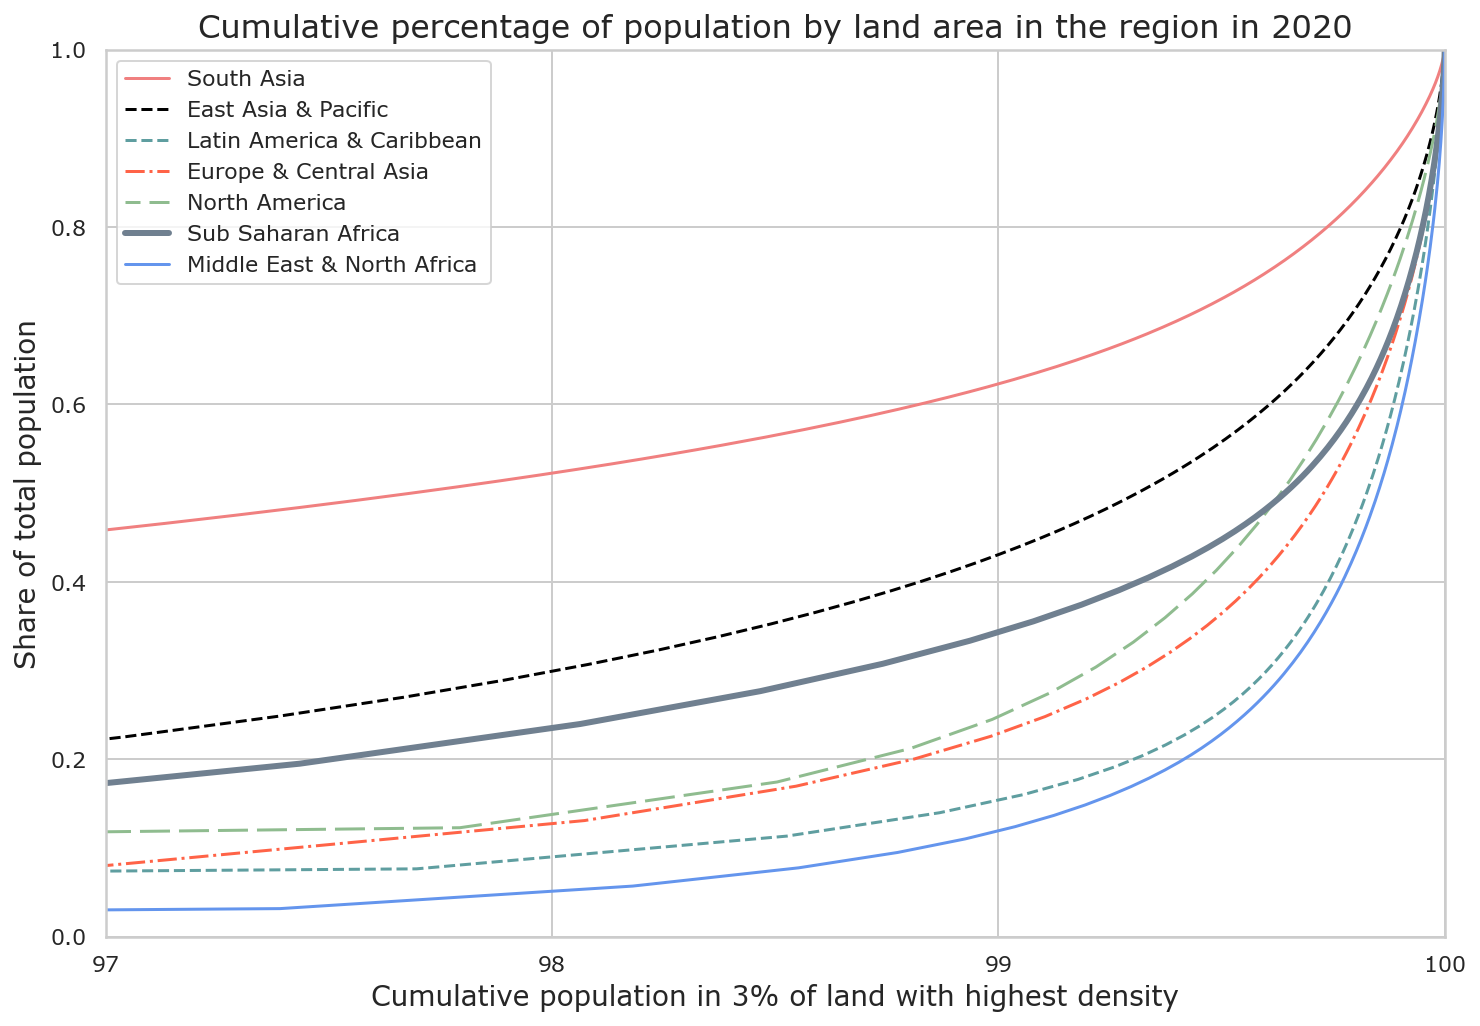
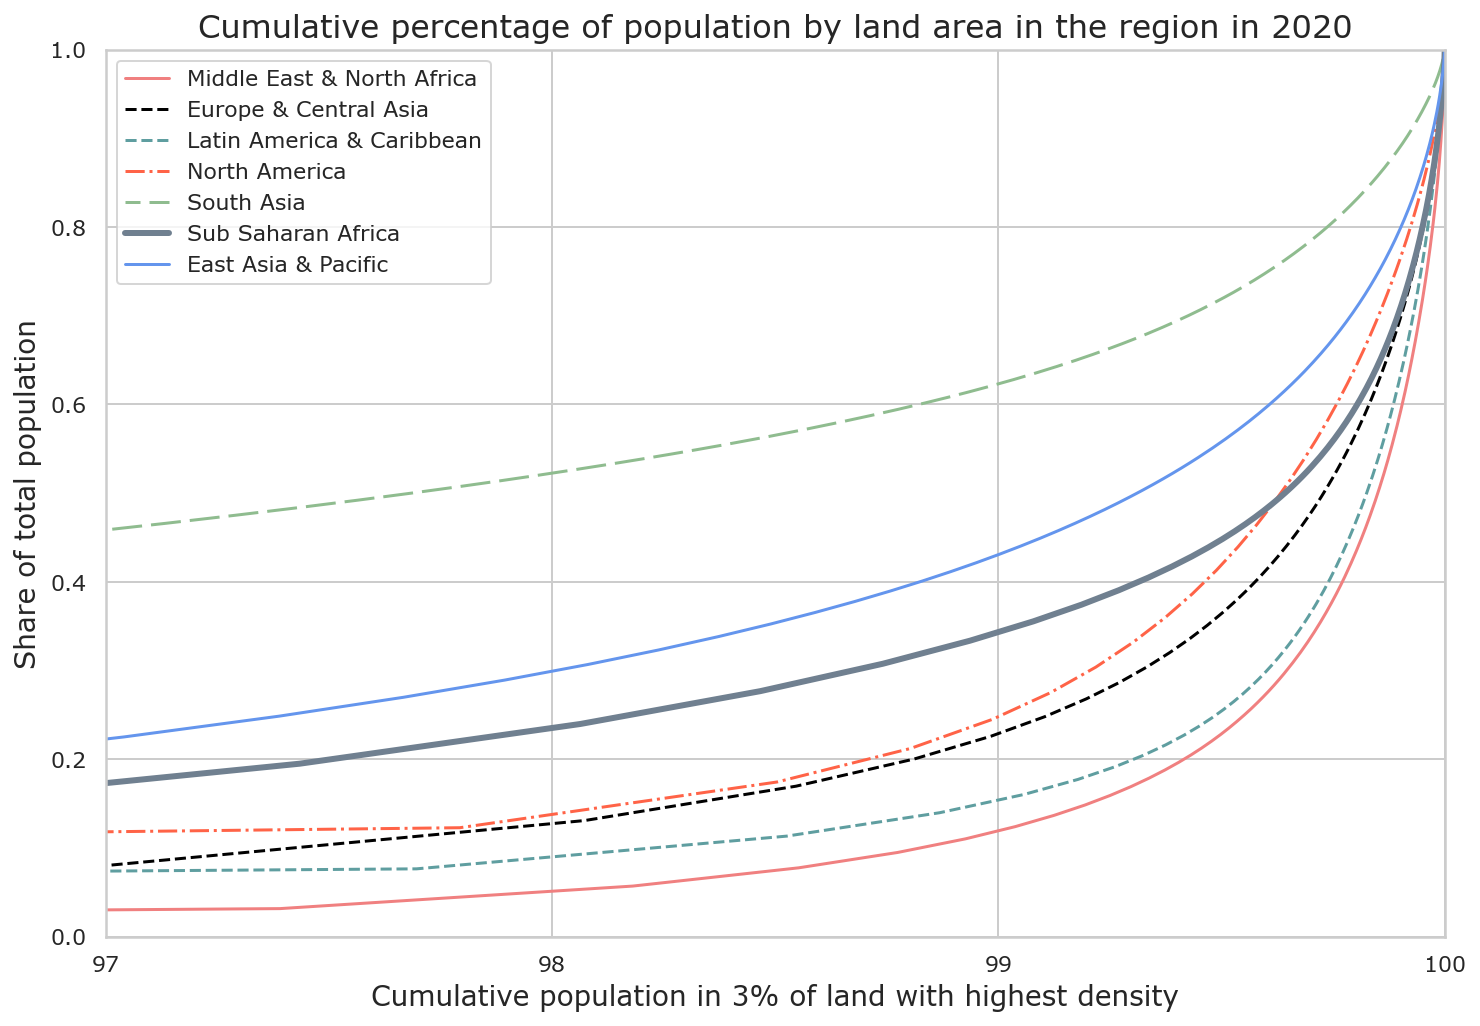
Attepting to fix curve and start of lagged bin calculations

diff --git a/lag_bin.js b/lag_bin.js
@@ -1,0 +1,327 @@
+var pop1980 = ee.Image("JRC/GHSL/P2023A/GHS_POP/1980");
+var pop1990 = ee.Image("JRC/GHSL/P2023A/GHS_POP/1990");
+var pop2000 = ee.Image("JRC/GHSL/P2023A/GHS_POP/2000");
+var pop2010 = ee.Image("JRC/GHSL/P2023A/GHS_POP/2010");
+var pop2020 = ee.Image("JRC/GHSL/P2023A/GHS_POP/2020");
+
+var countriesFC = ee.FeatureCollection('FAO/GAUL/2015/level0');
+
+// ---------------------------------------- using 1980 pop
+// Aggregate population data to 1-km grid cells for 1980 population
+var population1km = pop1980.where(pop1980.lt(0), 0).reduceResolution({
+    reducer: ee.Reducer.sum().unweighted(),
+    maxPixels: 1024
+  })
+  .reproject({
+    crs: pop1980.projection().atScale(1000)
+  });
+  
+//Map.addLayer(population, {}, "Population");
+//Map.addLayer(population1km, {}, "Population at 1km");
+
+// Round up population values to the nearest 100 as a new raster for 1980 population
+var binned_pop1km = population1km.expression(
+  "ceil(pop / 100) * 100", {
+	'pop': population1km,
+  }
+).rename('binned_population');
+// ---------------------------------------------------------
+
+// aggregate pop to 1km..replace pop1980 ---------------------
+var population1km = pop1990.where(pop1990.lt(0), 0).reduceResolution({
+    reducer: ee.Reducer.sum().unweighted(),
+    maxPixels: 1024
+  })
+  .reproject({
+    crs: pop1990.projection().atScale(1000)
+  });
+
+//Map.addLayer(binned_pop1km, {}, "Population at 1km round up to nearest 100");
+// -------------------------------------------------------------
+
+
+// Combine original population data and binned raster
+var combined = population1km.addBands(binned_pop1km);
+
+
+// This function handles all regions except North America
+// function starts------------------------------------------------------
+function processRegionPopulation(countries, exportFileName) {
+  
+  // Initialize empty FeatureCollection to aggregate results for the region
+  var regionResults = ee.FeatureCollection([]);
+  
+  // Loop through each country in the region
+  countries.forEach(function (countryName) {
+      // Filter the country geometry
+      var countryGeometry = countriesFC.filter(ee.Filter.eq('ADM0_NAME', countryName)).geometry();
+  
+      // Clip population data to the country
+      var combined_x = combined.clip(countryGeometry);
+      
+      //Define a reducer that counts cells and sums population
+      var reducer = ee.Reducer.sum().combine({
+        reducer2: ee.Reducer.count(),
+        sharedInputs: true
+      }).group({groupField: 1,});
+      
+      
+      // Reduce to bin-level population totals
+      var popByBin = combined_x.reduceRegion({
+        reducer: reducer,
+        geometry: countryGeometry,
+        scale: 1000,
+        maxPixels: 1e9,
+      });
+  
+      // Extract grouped data
+      var groups = ee.List(popByBin.get('groups'));
+      
+
+      // Create a FeatureCollection from grouped data for the country
+      var countryFeatures = groups.map(function (group) {
+        group = ee.Dictionary(group);
+        return ee.Feature(null, {
+          'Bin': group.get('group'), // Bin ID
+          'PopulationSum': group.get('sum'), // Population sum for the bin
+          'GridcellCount': group.get('count'), // Count of gridcells for the bin
+        });
+      });
+
+    // Append country results to the region's FeatureCollection
+    regionResults = regionResults.merge(ee.FeatureCollection(countryFeatures));
+  });
+  
+  // Calculate sum of both population and gridcells
+  var merged = regionResults.reduceColumns({
+    reducer: ee.Reducer.sum().repeat(2).group({
+      groupField: 0,  // Index of the column to group by
+      groupName: 'Bin',
+    }),
+    selectors: ['Bin', 'PopulationSum', 'GridcellCount']  
+  }).get('groups');
+
+  // Convert the merged results back to a FeatureCollection
+  var mergedFC = ee.FeatureCollection(ee.List(merged).map(function(group) {
+    var groupValue = ee.Dictionary(group).get('Bin');
+    var sumValue = ee.List(ee.Dictionary(group).get('sum')).get(0);
+    var countValue = ee.List(ee.Dictionary(group).get('sum')).get(1);
+    
+    return ee.Feature(null, {
+      'Bin': groupValue,
+      'PopulationSum': sumValue,
+      'GridcellCount': countValue
+    });
+  }));
+  
+  // Export to CSV
+  Export.table.toDrive({
+    collection: mergedFC,
+    description: exportFileName,  // Name of your export file
+    fileFormat: 'CSV'
+  });
+}
+
+// Sub-Saharan Africa
+var SSA = ['Angola','Nigeria', 'Ghana', 'Kenya', 'Swaziland', 'Benin',
+'Botswana', 'Burkina Faso', 'Burundi', 'Cape Verde', 'Cameroon', 
+'Central African Republic', 'Chad', 'Comoros', 'Congo', 
+'Democratic Republic of the Congo', "Côte d'Ivoire", 'Equatorial Guinea',
+'Eritrea', 'Ethiopia', 'Gabon', 'Gambia', 'Guinea', 'Guinea-Bissau', 'Lesotho',
+'Liberia', 'Madagascar', 'Malawi', 'Mali', 'Mauritania', 'Mauritius', 'Mozambique',
+'Namibia', 'Niger', 'Rwanda', 'Sao Tome and Principe', 'Senegal', 'Seychelles', 
+'Sierra Leone', 'Somalia', 'South Africa', 'South Sudan', 'Sudan', 'United Republic of Tanzania', 
+'Togo', 'Uganda', 'Zambia', 'Zimbabwe'];
+
+// East Asia and Pacific
+var EAP =['American Samoa', 'Australia', 'Brunei Darussalam', 'Cambodia', 'China', 'Fiji',
+'French Polynesia', 'Guam', 'Hong Kong', 'Indonesia', 'Japan', 'Kiribati', 
+"Dem People's Rep of Korea", "Republic of Korea", "Lao People's Democratic Republic",
+'Macau', 'Malaysia', 'Marshall Islands', "Micronesia (Federated States of)",
+'Mongolia', 'Myanmar','Nauru', 'New Caledonia', 'New Zealand','Northern Mariana Islands',
+'Palau','Papua New Guinea', 'Philippines', 'Samoa', 'Singapore', 'Solomon Islands',
+'Taiwan', 'Thailand', 'Timor-Leste', 'Tonga', 'Tuvalu','Vanuatu', 'Viet Nam'
+  ];
+  
+// Europe and Central Asia
+var ECA = ['Albania', 'Andorra', 'Armenia', 'Austria', 'Azerbaijan', 'Belarus', 'Belgium',
+'Bosnia and Herzegovina', 'Bulgaria', 'Croatia', 'Cyprus', 'Denmark', 'Estonia', 'Faroe Islands',
+'Finland', 'France', 'Georgia', 'Germany', 'Gibraltar', 'Greece', 'Greenland', 'Hungary', 'Iceland',
+'Ireland', 'Isle of Man', 'Italy', 'Kazakhstan', 'Latvia', 'Liechtenstein', 'Lithuania', 'Luxembourg',
+'Moldova, Republic of', 'Monaco', 'Montenegro', 'Netherlands', 'Norway', 'Poland', 'Portugal', 'Romania',
+'Russian Federation', 'San Marino', 'Serbia', 'Slovenia', 'Spain', 'Sweden', 'Switzerland', 'Tajikistan',
+'Turkmenistan', 'Turkey', 'Ukraine', 'U.K. of Great Britain and Northern Ireland', 'Uzbekistan'
+];
+
+// Latin America & Caribbean
+var LAC = ['Antigua and Barbuda', 'Argentina', 'Aruba', 'Barbados', 'Belize', 'Bolivia', 'Brazil', 'British Virgin Islands',
+'Cayman Islands', 'Chile', 'Colombia', 'Costa Rica', 'Cuba', 'Dominica', 'Dominican Republic', 'Ecuador', 'El Salvador', 
+'Grenada', 'Guatemala', 'Guyana', 'Haiti', 'Honduras', 'Jamaica', 'Mexico', 'Nicaragua', 'Panama', 'Paraguay', 'Peru', 
+'Puerto Rico', 'Saint Kitts and Nevis', 'Saint Vincent and the Grenadines', 'Suriname', 'Trinidad and Tobago',
+'Turks and Caicos islands', 'Uruguay', 'Venezuela', 'United States Virgin Islands'
+];
+
+// Middle East & North Africa
+var MENA = ['Algeria', 'Bahrain', 'Djibouti', 'Egypt', 'Iran  (Islamic Republic of)', 'Iraq', 'Israel', 'Jordan',
+'Kuwait', 'Lebanon', 'Libya', 'Malta', 'Morocco', 'Oman', 'Qatar', 'Saudi Arabia', 'Syrian Arab Republic',
+'Tunisia', 'United Arab Emirates', 'West Bank', 'Yemen'
+  ];
+
+//South Asia
+var SA = ['Afghanistan', 'Bangladesh', 'Bhutan', 'India', 'Maldives', 'Nepal', 'Pakistan', 'Sri Lanka'
+];
+  
+  
+ 
+// North America 
+var NA = ['Bermuda', 'Canada', 'United States of America'];
+
+// This function handles North America
+// Unified function to process both single and multipolygon countries
+function processDynamicRegion(countries, exportFileName) {
+  // Initialize empty FeatureCollection to aggregate results
+  var regionResults = ee.FeatureCollection([]);
+
+  countries.forEach(function(countryName) {
+    var countryFC = countriesFC.filter(ee.Filter.eq('ADM0_NAME', countryName));
+    var countrySize = countryFC.size();
+
+    // Handle each country separately to avoid projection issues
+    if (countrySize.gt(1)) {
+      // Handle multipolygon countries
+      var features = countryFC.toList(countrySize);
+      
+      // Process each feature separately
+      var processFeature = function(feature) {
+        feature = ee.Feature(feature);
+        var featureGeometry = feature.geometry();
+        
+        // Reproject the geometry to match the population data's projection
+        //featureGeometry = featureGeometry.transform(population1km.projection(), ee.ErrorMargin(1000, 'meters'));
+        
+        // Clip population data to the feature geometry
+        var combined_x = combined.clip(featureGeometry);
+        
+        // Use unbounded geometry for reduction
+        //var reducerGeometry = featureGeometry.bounds();
+        
+        // Define reducer
+        var reducer = ee.Reducer.sum().combine({
+          reducer2: ee.Reducer.count(),
+          sharedInputs: true
+        }).group({groupField: 1});
+        
+        
+          // Reduce to bin-level population totals with error handling
+          var popByBin = combined_x.reduceRegion({
+            reducer: reducer,
+            geometry: featureGeometry,
+            scale: 1000,
+            maxPixels: 1e13
+            //tileScale: 4
+          });
+          
+          // Extract grouped data
+          var groups = ee.List(popByBin.get('groups'));
+          
+          return ee.FeatureCollection(groups.map(function(group) {
+            group = ee.Dictionary(group);
+            return ee.Feature(null, {
+              'Bin': group.get('group'),
+              'PopulationSum': group.get('sum'),
+              'GridcellCount': group.get('count'),
+            });
+          }));
+      };
+      
+      // Map over all features
+      var allResults = features.map(function(feature) {
+        return processFeature(feature);
+      });
+      
+      // Merge all results for multipolygon
+      var mergedResults = ee.FeatureCollection(allResults).flatten();
+      regionResults = regionResults.merge(mergedResults);
+      
+    } else {
+      // Handle single geometry countries
+      var countryGeometry = countriesFC.filter(ee.Filter.eq('ADM0_NAME', countryName)).geometry();
+      
+      var combined_x = combined.clip(countryGeometry);
+      
+      // Use unbounded geometry for reduction
+      //var reducerGeometry = countryGeometry.bounds();
+      
+      // Define reducer
+      var reducer = ee.Reducer.sum().combine({
+        reducer2: ee.Reducer.count(),
+        sharedInputs: true
+      }).group({groupField: 1});
+      
+     
+        // Reduce to bin-level population totals with error handling
+        var popByBin = combined_x.reduceRegion({
+          reducer: reducer,
+          geometry: countryGeometry,
+          scale: 1000,
+          maxPixels: 1e9
+          //tileScale: 4
+        });
+        
+        // Extract grouped data
+        var groups = ee.List(popByBin.get('groups'));
+        
+        // Create features from grouped data
+        var countryFeatures = groups.map(function(group) {
+          group = ee.Dictionary(group);
+          return ee.Feature(null, {
+            'Bin': group.get('group'),
+            'PopulationSum': group.get('sum'),
+            'GridcellCount': group.get('count'),
+          });
+        });
+        
+        regionResults = regionResults.merge(ee.FeatureCollection(countryFeatures));
+    }
+  });
+
+  // Aggregate results by bin
+  var finalResults = regionResults.reduceColumns({
+    reducer: ee.Reducer.sum().repeat(2).group({
+      groupField: 0,
+      groupName: 'Bin',
+    }),
+    selectors: ['Bin', 'PopulationSum', 'GridcellCount']
+  }).get('groups');
+
+  // Convert the merged results back to a FeatureCollection
+  var mergedFC = ee.FeatureCollection(ee.List(finalResults).map(function(group) {
+    var groupValue = ee.Dictionary(group).get('Bin');
+    var sumValue = ee.List(ee.Dictionary(group).get('sum')).get(0);
+    var countValue = ee.List(ee.Dictionary(group).get('sum')).get(1);
+    
+    return ee.Feature(null, {
+      'Bin': groupValue,
+      'PopulationSum': sumValue,
+      'GridcellCount': countValue
+    });
+  }));
+ // Export to CSV
+  Export.table.toDrive({
+    collection: mergedFC,
+    description: exportFileName,  // Name of your export file
+    fileFormat: 'CSV'
+  });
+}
+
+
+
+
+//processRegionPopulation(EAP, 'East_Asia_and_Pacific');
+processRegionPopulation(SSA, 'Sub_Saharan_Africa');
+//processRegionPopulation(LAC, 'Latin_America_and_Caribbean');
+processRegionPopulation(MENA, 'Middle_East_and_North_Africa');
+processRegionPopulation(ECA, 'Europe_and_Central_Asia');
+processRegionPopulation(SA, 'South_Asia');
+processDynamicRegion(NA, 'North_America');
+  

diff --git a/reproduction_plots.py b/reproduction_plots.py
@@ -4,6 +4,7 @@
 import pandas as pd
 import matplotlib.pyplot as plt
 import seaborn as sns
+from scipy.interpolate import interp1d
 import numpy as np
 import os
 
@@ -197,13 +198,15 @@ def plot1b(data1, data2, plot_title, output_file=None, x_value=98):
     lines_dict = {}
     # Ensure both datasets have the same columns
     common_columns = set(data1.columns).intersection(set(data2.columns))
- 
- 
+
+    
     for i, column in enumerate(common_columns):
         if column == "Sub_Saharan_Africa":
             #data2 = data2.head(200)
             dt1 = data2[data2[column] >= 0.65][column] * 100
             dt2 = data1[column].loc[data2[data2[column] >= 0.65][column].index]
+            dt1.dropna(inplace=True)
+            dt2.dropna(inplace=True)
             line, = plt.plot(
                 dt1, dt2, label=column.replace("_", " ").replace("and", "&"), 
                 linestyle="solid",
@@ -214,6 +217,8 @@ def plot1b(data1, data2, plot_title, output_file=None, x_value=98):
         else:
             dt1 = data2[data2[column] >= 0.65][column] * 100
             dt2 = data1[column].loc[data2[data2[column] >= 0.65][column].index]
+            dt1.dropna(inplace=True)
+            dt2.dropna(inplace=True)
             line, = plt.plot(
                 dt1, dt2, label=column.replace("_", " ").replace("and", "&"), 
                 linestyle=line_styles[i % len(line_styles)],
